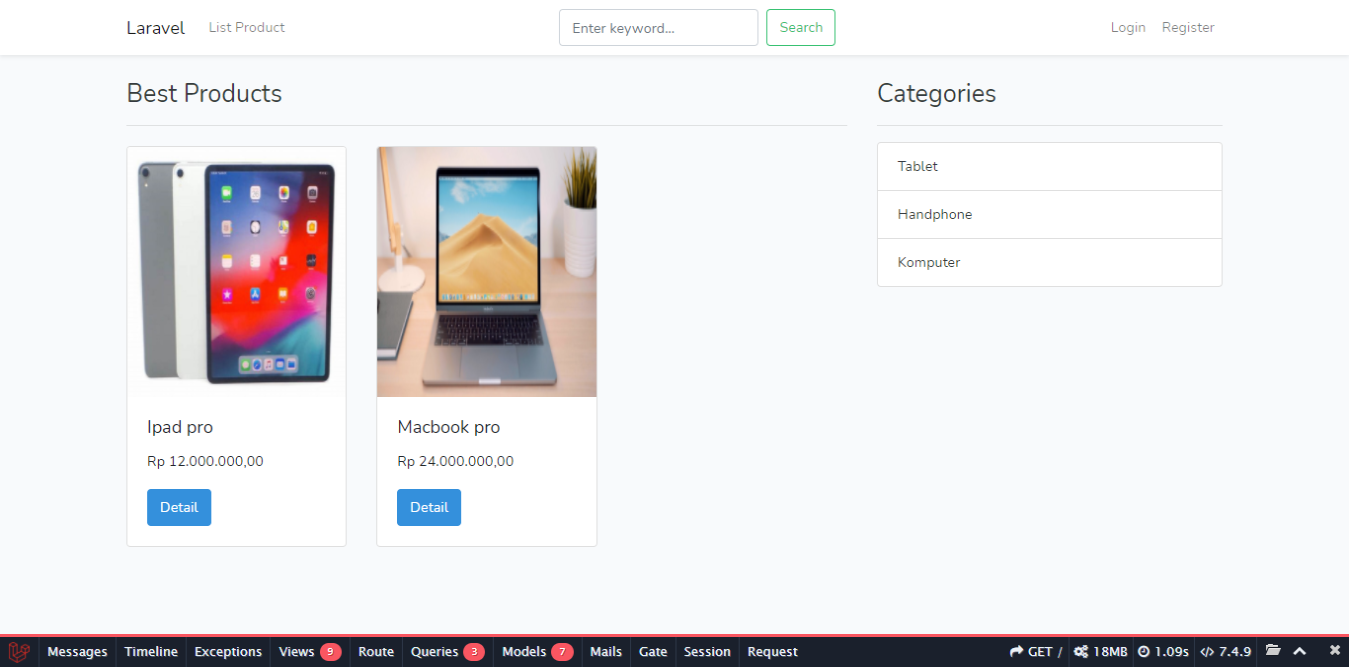
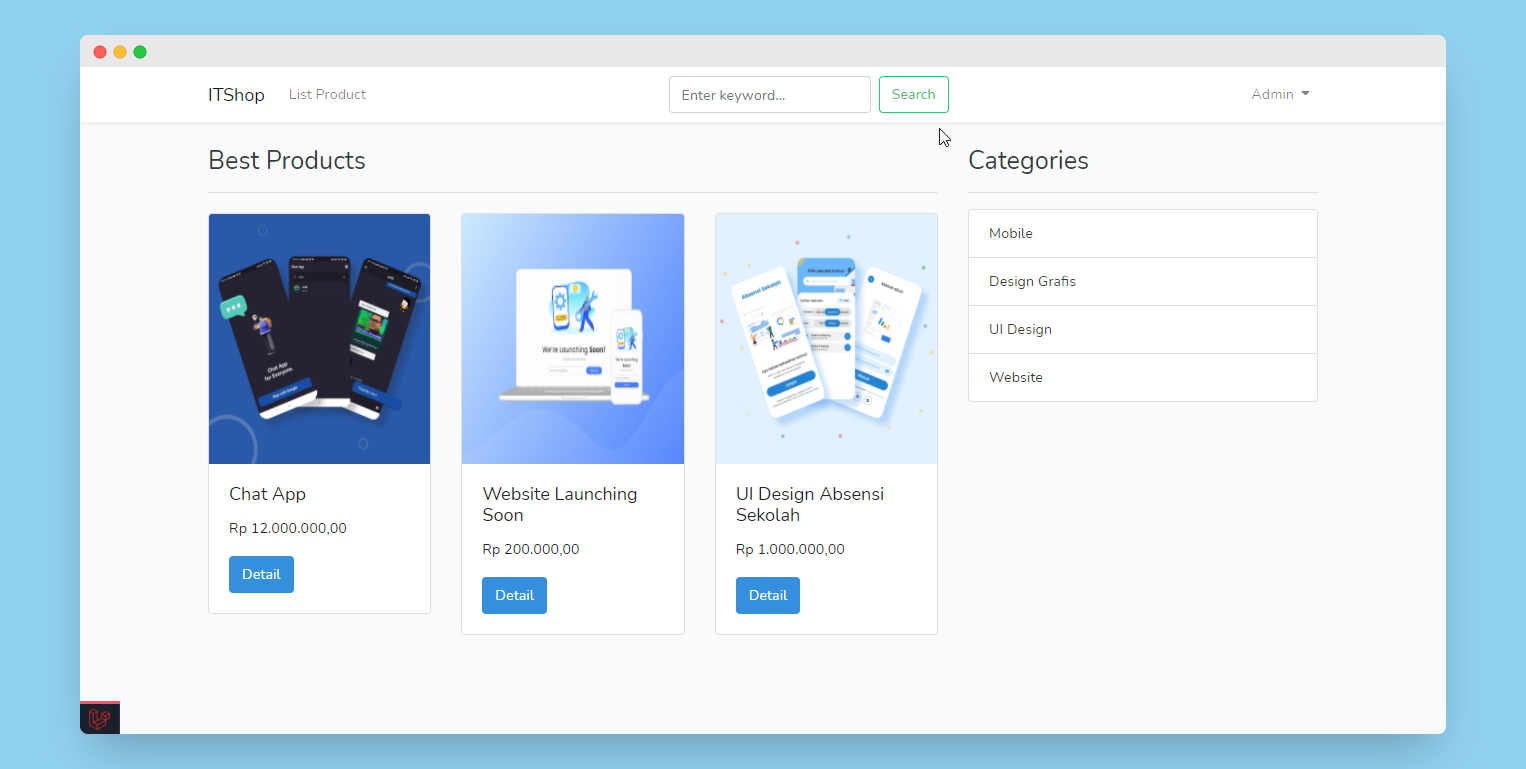
update

diff --git a/resources/views/layouts/app.blade.php b/resources/views/layouts/app.blade.php
@@ -31,12 +31,10 @@
             <div class="container">
 
                 <a class="navbar-brand" href="{{ url('/') }}">
-                    {{ config('app.name', 'Laravel') }}
+                    ITShop
                 </a>
 
-                <button class="navbar-toggler" type="button" data-toggle="collapse"
-                    data-target="#navbarSupportedContent" aria-controls="navbarSupportedContent" aria-expanded="false"
-                    aria-label="{{ __('Toggle navigation') }}">
+                <button class="navbar-toggler" type="button" data-toggle="collapse" data-target="#navbarSupportedContent" aria-controls="navbarSupportedContent" aria-expanded="false" aria-label="{{ __('Toggle navigation') }}">
                     <span class="navbar-toggler-icon"></span>
                 </button>
 
@@ -44,8 +42,7 @@
                     <!-- Left Side Of Navbar -->
                     <ul class="navbar-nav mr-auto">
                         <li class="nav-item">
-                            <a href="{{ route('products') }}"
-                                class="nav-link{{ request()->segment(1) == 'products' ? ' active' : '' }}">
+                            <a href="{{ route('products') }}" class="nav-link{{ request()->segment(1) == 'products' ? ' active' : '' }}">
                                 List Product
                             </a>
                         </li>
@@ -53,8 +50,7 @@
 
                     <ul class="navbar-nav">
                         <form action="{{ route('search') }}" method="GET" class="form-inline my-2 my-lg-0">
-                            <input class="form-control mr-sm-2" type="text" placeholder="Enter keyword..."
-                                aria-label="Search" name="keyword" autocomplete="on">
+                            <input class="form-control mr-sm-2" type="text" placeholder="Enter keyword..." aria-label="Search" name="keyword" autocomplete="on">
                             <button class="btn btn-outline-success my-2 my-sm-0" type="submit">
                                 Search
                             </button>
@@ -65,55 +61,49 @@
                     <ul class="navbar-nav ml-auto">
                         <!-- Authentication Links -->
                         @guest
-                            @if (Route::has('login'))
-                                <li class="nav-item">
-                                    <a class="nav-link{{ request()->segment(1) == 'login' ? ' active' : '' }}"
-                                        href="{{ route('login') }}">{{ __('Login') }}
-                                    </a>
-                                </li>
-                            @endif
+                        @if (Route::has('login'))
+                        <li class="nav-item">
+                            <a class="nav-link{{ request()->segment(1) == 'login' ? ' active' : '' }}" href="{{ route('login') }}">{{ __('Login') }}
+                            </a>
+                        </li>
+                        @endif
 
-                            @if (Route::has('register'))
-                                <li class="nav-item">
-                                    <a class="nav-link{{ request()->segment(1) == 'register' ? ' active' : '' }}"
-                                        href="{{ route('register') }}">{{ __('Register') }}
-                                    </a>
-                                </li>
-                            @endif
+                        @if (Route::has('register'))
+                        <li class="nav-item">
+                            <a class="nav-link{{ request()->segment(1) == 'register' ? ' active' : '' }}" href="{{ route('register') }}">{{ __('Register') }}
+                            </a>
+                        </li>
+                        @endif
                         @else
 
-                            @if (Auth::user()->role == 1)
-                                <a href="{{ route('cart') }}"
-                                    class="nav-link{{ request()->segment(1) == 'cart' ? ' active' : '' }}"><i
-                                        class='bx bxs-cart'></i>
+                        @if (Auth::user()->role == 1)
+                        <a href="{{ route('cart') }}" class="nav-link{{ request()->segment(1) == 'cart' ? ' active' : '' }}"><i class='bx bxs-cart'></i>
+                        </a>
+                        @endif
+
+                        <li class="nav-item dropdown">
+                            <a id="navbarDropdown" class="nav-link dropdown-toggle" href="#" role="button" data-toggle="dropdown" aria-haspopup="true" aria-expanded="false" v-pre>
+                                {{ Auth::user()->name }}
+                            </a>
+
+                            <div class="dropdown-menu dropdown-menu-right" aria-labelledby="navbarDropdown">
+                                @if (Auth::user()->role == 0)
+                                <a class="dropdown-item" href="{{ route('create') }}">New Product</a>
+                                <a class="dropdown-item" href="{{ route('payment') }}">Payment</a>
+                                <a class="dropdown-item" href="{{ route('purchase') }}">Purchase</a>
+                                @endif
+                                @if (Auth::user()->role == 1)
+                                <a class="dropdown-item" href="{{ route('my-order') }}">My Order</a>
+                                @endif
+
+                                <a class="dropdown-item" href="{{ route('logout') }}" onclick="event.preventDefault(); document.getElementById('logout-form').submit();">{{ __('Logout') }}
                                 </a>
-                            @endif
 
-                            <li class="nav-item dropdown">
-                                <a id="navbarDropdown" class="nav-link dropdown-toggle" href="#" role="button"
-                                    data-toggle="dropdown" aria-haspopup="true" aria-expanded="false" v-pre>
-                                    {{ Auth::user()->name }}
-                                </a>
-
-                                <div class="dropdown-menu dropdown-menu-right" aria-labelledby="navbarDropdown">
-                                    @if (Auth::user()->role == 0)
-                                        <a class="dropdown-item" href="{{ route('create') }}">New Product</a>
-                                        <a class="dropdown-item" href="{{ route('payment') }}">Payment</a>
-                                        <a class="dropdown-item" href="{{ route('purchase') }}">Purchase</a>
-                                    @endif
-                                    @if (Auth::user()->role == 1)
-                                        <a class="dropdown-item" href="{{ route('my-order') }}">My Order</a>
-                                    @endif
-
-                                    <a class="dropdown-item" href="{{ route('logout') }}"
-                                        onclick="event.preventDefault(); document.getElementById('logout-form').submit();">{{ __('Logout') }}
-                                    </a>
-
-                                    <form id="logout-form" action="{{ route('logout') }}" method="POST" class="d-none">
-                                        @csrf
-                                    </form>
-                                </div>
-                            </li>
+                                <form id="logout-form" action="{{ route('logout') }}" method="POST" class="d-none">
+                                    @csrf
+                                </form>
+                            </div>
+                        </li>
                         @endguest
                     </ul>
                 </div>
@@ -145,7 +135,6 @@
             }
 
         }
-
     </script>
 </body>
 

diff --git a/README.md b/README.md
@@ -1,90 +1,42 @@
-<p align="center"><a href="https://laravel.com" target="_blank"><img src="https://raw.githubusercontent.com/laravel/art/master/logo-lockup/5%20SVG/2%20CMYK/1%20Full%20Color/laravel-logolockup-cmyk-red.svg" width="400"></a></p>
+<h1 align="center">Selamat datang di ITShop! 👋</h1>
 
-<p align="center">
-<a href="https://travis-ci.org/laravel/framework"><img src="https://travis-ci.org/laravel/framework.svg" alt="Build Status"></a>
-<a href="https://packagist.org/packages/laravel/framework"><img src="https://img.shields.io/packagist/dt/laravel/framework" alt="Total Downloads"></a>
-<a href="https://packagist.org/packages/laravel/framework"><img src="https://img.shields.io/packagist/v/laravel/framework" alt="Latest Stable Version"></a>
-<a href="https://packagist.org/packages/laravel/framework"><img src="https://img.shields.io/packagist/l/laravel/framework" alt="License"></a>
+![ITShop - Screenshot](/images/home.png)
+
+<p align ="Center">
+
+<img src="https://img.shields.io/github/issues/hafidardiansyah/ITShop?style=flat-square">
+<img src="https://img.shields.io/github/stars/hafidardiansyah/ITShop?style=flat-square">
+<img src="https://img.shields.io/github/forks/hafidardiansyah/ITShop?style=flat-square">
+
 </p>
 
-## Fitur
+### 🤔 Apa itu ITShop?
 
--   [x] Role
--   [x] Login
--   [x] Register
--   [x] Search
--   [x] Product
--   [x] Category
--   [x] Purchase
--   [x] Cart
--   [x] Order
--   [x] Payment
+ITShop adalah website jual beli online berkaitan tentang IT, yang dibuat oleh <a href="https://github.com/hafidardiansyah"> Hafid Ardiansyah</a>. Menggunakan Framework Bootstrap 4.5 & Laravel 8.
 
-## Screenshot Project
+### 🎉 Kenapa membuat ITShop?
 
-<table>
-    <tr>
-        <td><img src="images/home.png"></td>
-        <td><img src="images/login.png"></td>
-        <td><img src="images/new.png"></td>
-    </tr>
-    <tr>
-        <td><img src="images/cart.png"></td>
-        <td><img src="images/order.png"></td>
-        <td><img src="images/purchase.png"></td>
-    </tr>
-</table>
+Website ini saya buat untuk melatih saya menggunakan Laravel dan Bootstrap.
 
-## About Laravel
+### :star: Fitur
 
-Laravel is a web application framework with expressive, elegant syntax. We believe development must be an enjoyable and creative experience to be truly fulfilling. Laravel takes the pain out of development by easing common tasks used in many web projects, such as:
+-   CRUD (Create Read Update Delete)
+-   Autentikasi (Login, Register & Logout)
+-   2 Role (Admin & Pembeli)
+-   Pencarian
+-   Pagination
+-   Responsive website
 
--   [Simple, fast routing engine](https://laravel.com/docs/routing).
--   [Powerful dependency injection container](https://laravel.com/docs/container).
--   Multiple back-ends for [session](https://laravel.com/docs/session) and [cache](https://laravel.com/docs/cache) storage.
--   Expressive, intuitive [database ORM](https://laravel.com/docs/eloquent).
--   Database agnostic [schema migrations](https://laravel.com/docs/migrations).
--   [Robust background job processing](https://laravel.com/docs/queues).
--   [Real-time event broadcasting](https://laravel.com/docs/broadcasting).
+### :link: Social Media
 
-Laravel is accessible, powerful, and provides tools required for large, robust applications.
+-   Instagram : <a href="http://instagram.com/dev.hafid"> @dev.hafid</a>
+-   Dribbble : <a href="https://dribbble.com/hafidardiansyah"> hafidardiansyah</a>
 
-## Learning Laravel
+### 📝 Lisensi
 
-Laravel has the most extensive and thorough [documentation](https://laravel.com/docs) and video tutorial library of all modern web application frameworks, making it a breeze to get started with the framework.
+-   Copyright © 2020 Hafid Ardiansyah.
+-   **ITShop MIT License.**
 
-If you don't feel like reading, [Laracasts](https://laracasts.com) can help. Laracasts contains over 1500 video tutorials on a range of topics including Laravel, modern PHP, unit testing, and JavaScript. Boost your skills by digging into our comprehensive video library.
+---
 
-## Laravel Sponsors
-
-We would like to extend our thanks to the following sponsors for funding Laravel development. If you are interested in becoming a sponsor, please visit the Laravel [Patreon page](https://patreon.com/taylorotwell).
-
-### Premium Partners
-
--   **[Vehikl](https://vehikl.com/)**
--   **[Tighten Co.](https://tighten.co)**
--   **[Kirschbaum Development Group](https://kirschbaumdevelopment.com)**
--   **[64 Robots](https://64robots.com)**
--   **[Cubet Techno Labs](https://cubettech.com)**
--   **[Cyber-Duck](https://cyber-duck.co.uk)**
--   **[Many](https://www.many.co.uk)**
--   **[Webdock, Fast VPS Hosting](https://www.webdock.io/en)**
--   **[DevSquad](https://devsquad.com)**
--   **[Curotec](https://www.curotec.com/)**
--   **[OP.GG](https://op.gg)**
-
-## Contributing
-
-Thank you for considering contributing to the Laravel framework! The contribution guide can be found in the [Laravel documentation](https://laravel.com/docs/contributions).
-
-## Code of Conduct
-
-In order to ensure that the Laravel community is welcoming to all, please review and abide by the [Code of Conduct](https://laravel.com/docs/contributions#code-of-conduct).
-
-## Security Vulnerabilities
-
-If you discover a security vulnerability within Laravel, please send an e-mail to Taylor Otwell via [taylor@laravel.com](mailto:taylor@laravel.com). All security vulnerabilities will be promptly addressed.
-
-## License
-
-The Laravel framework is open-sourced software licensed under the [MIT license](https://opensource.org/licenses/MIT).
+-   **Made with ❤ by Hafid Ardiansyah**
